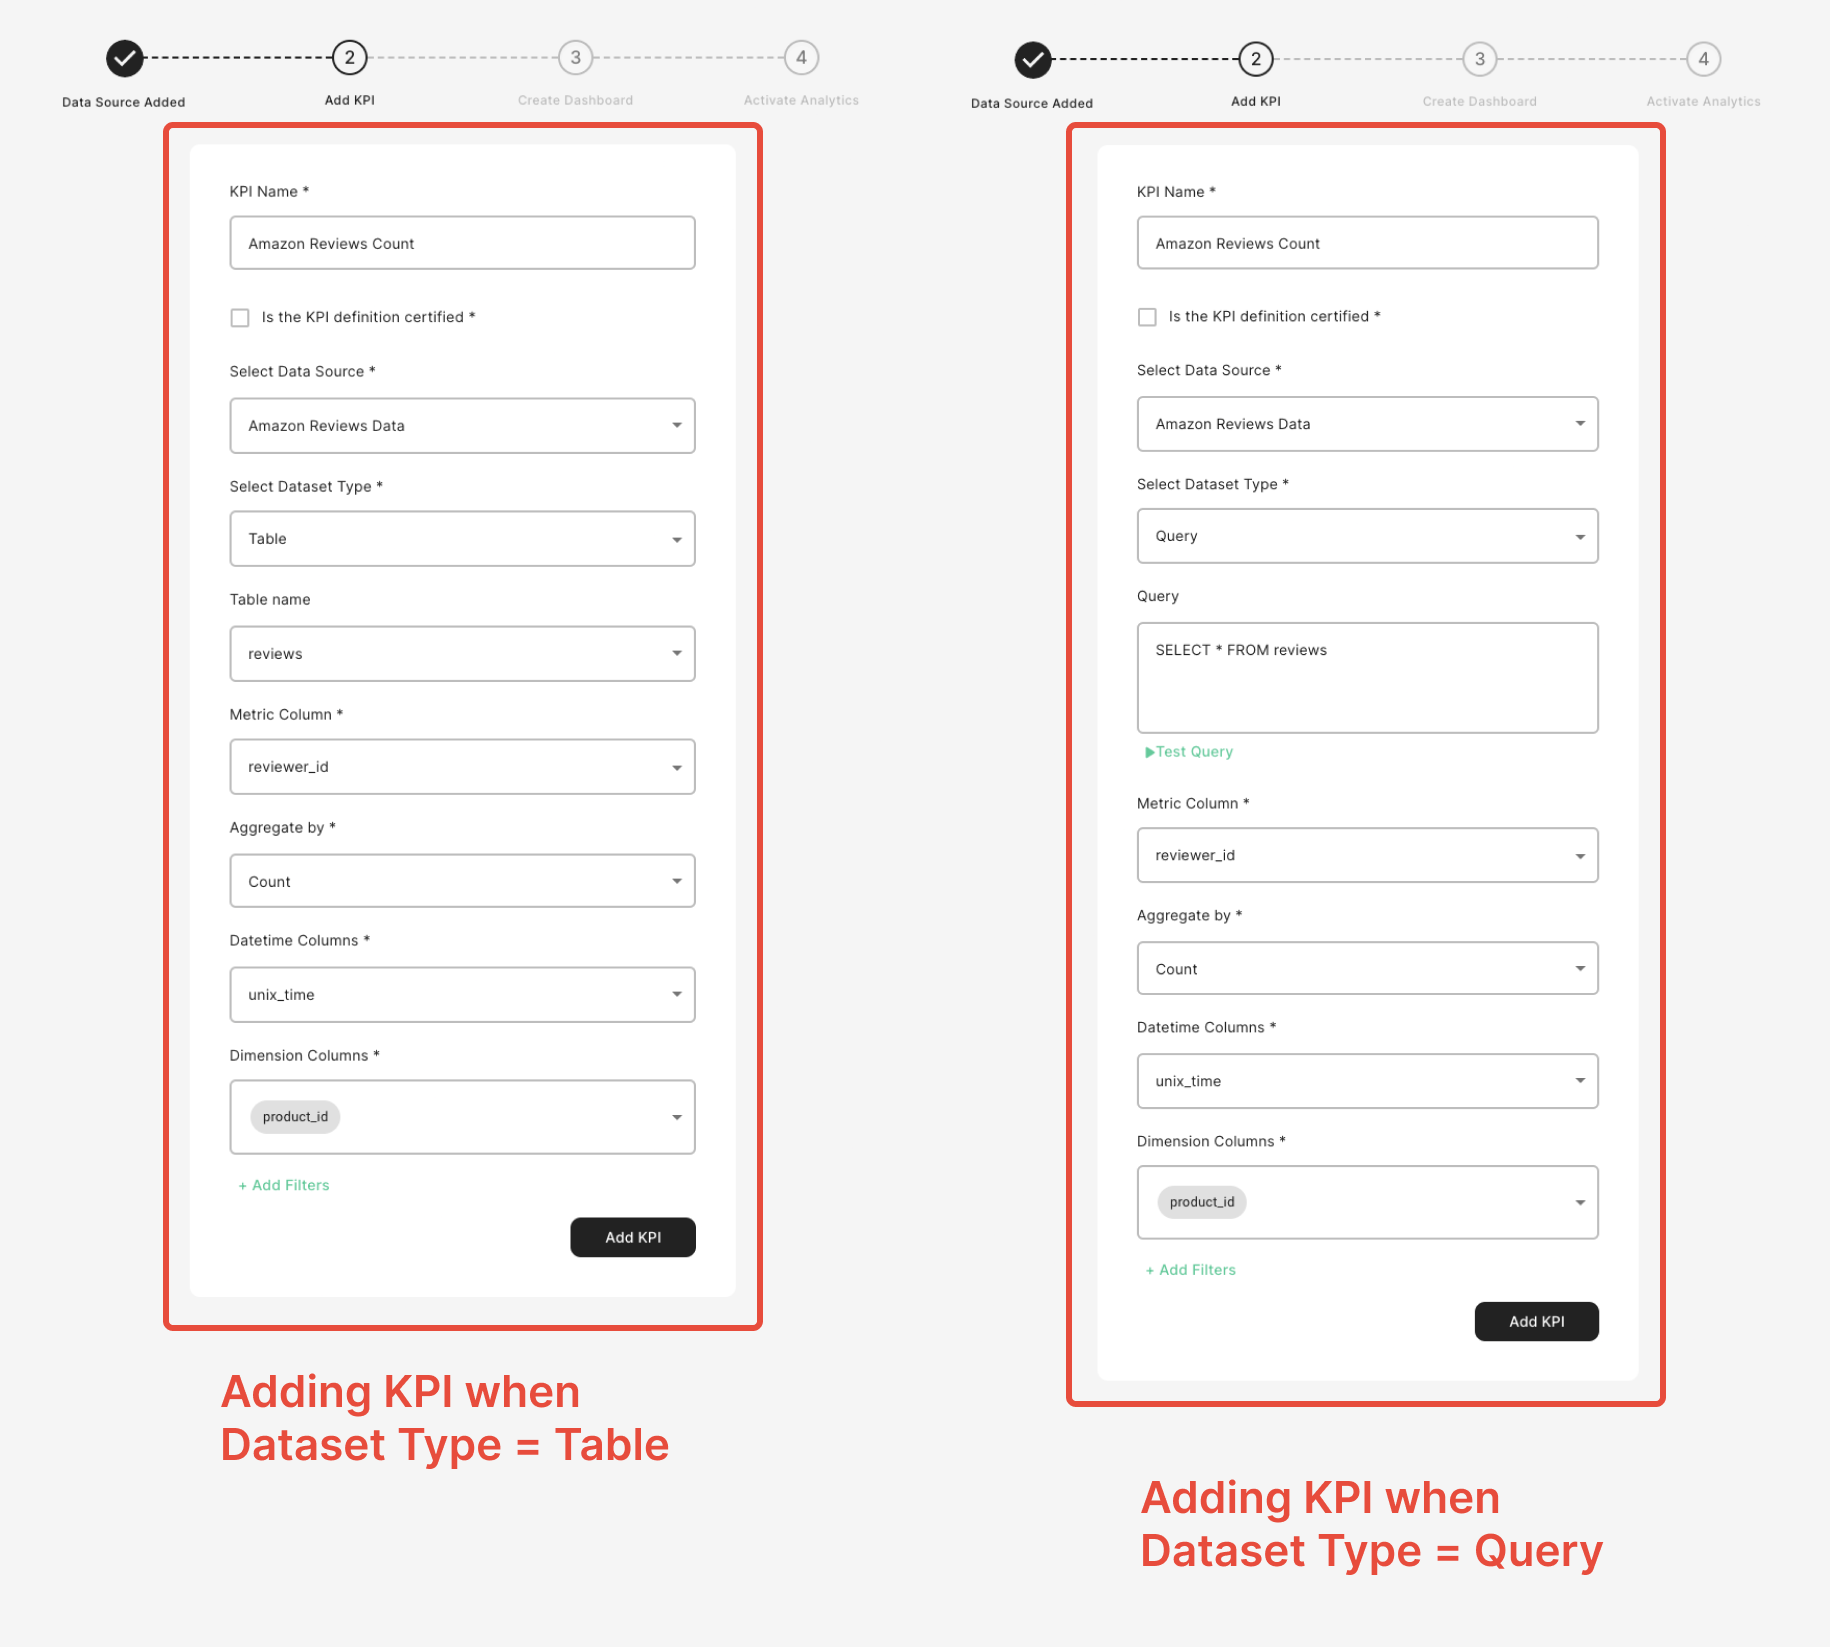
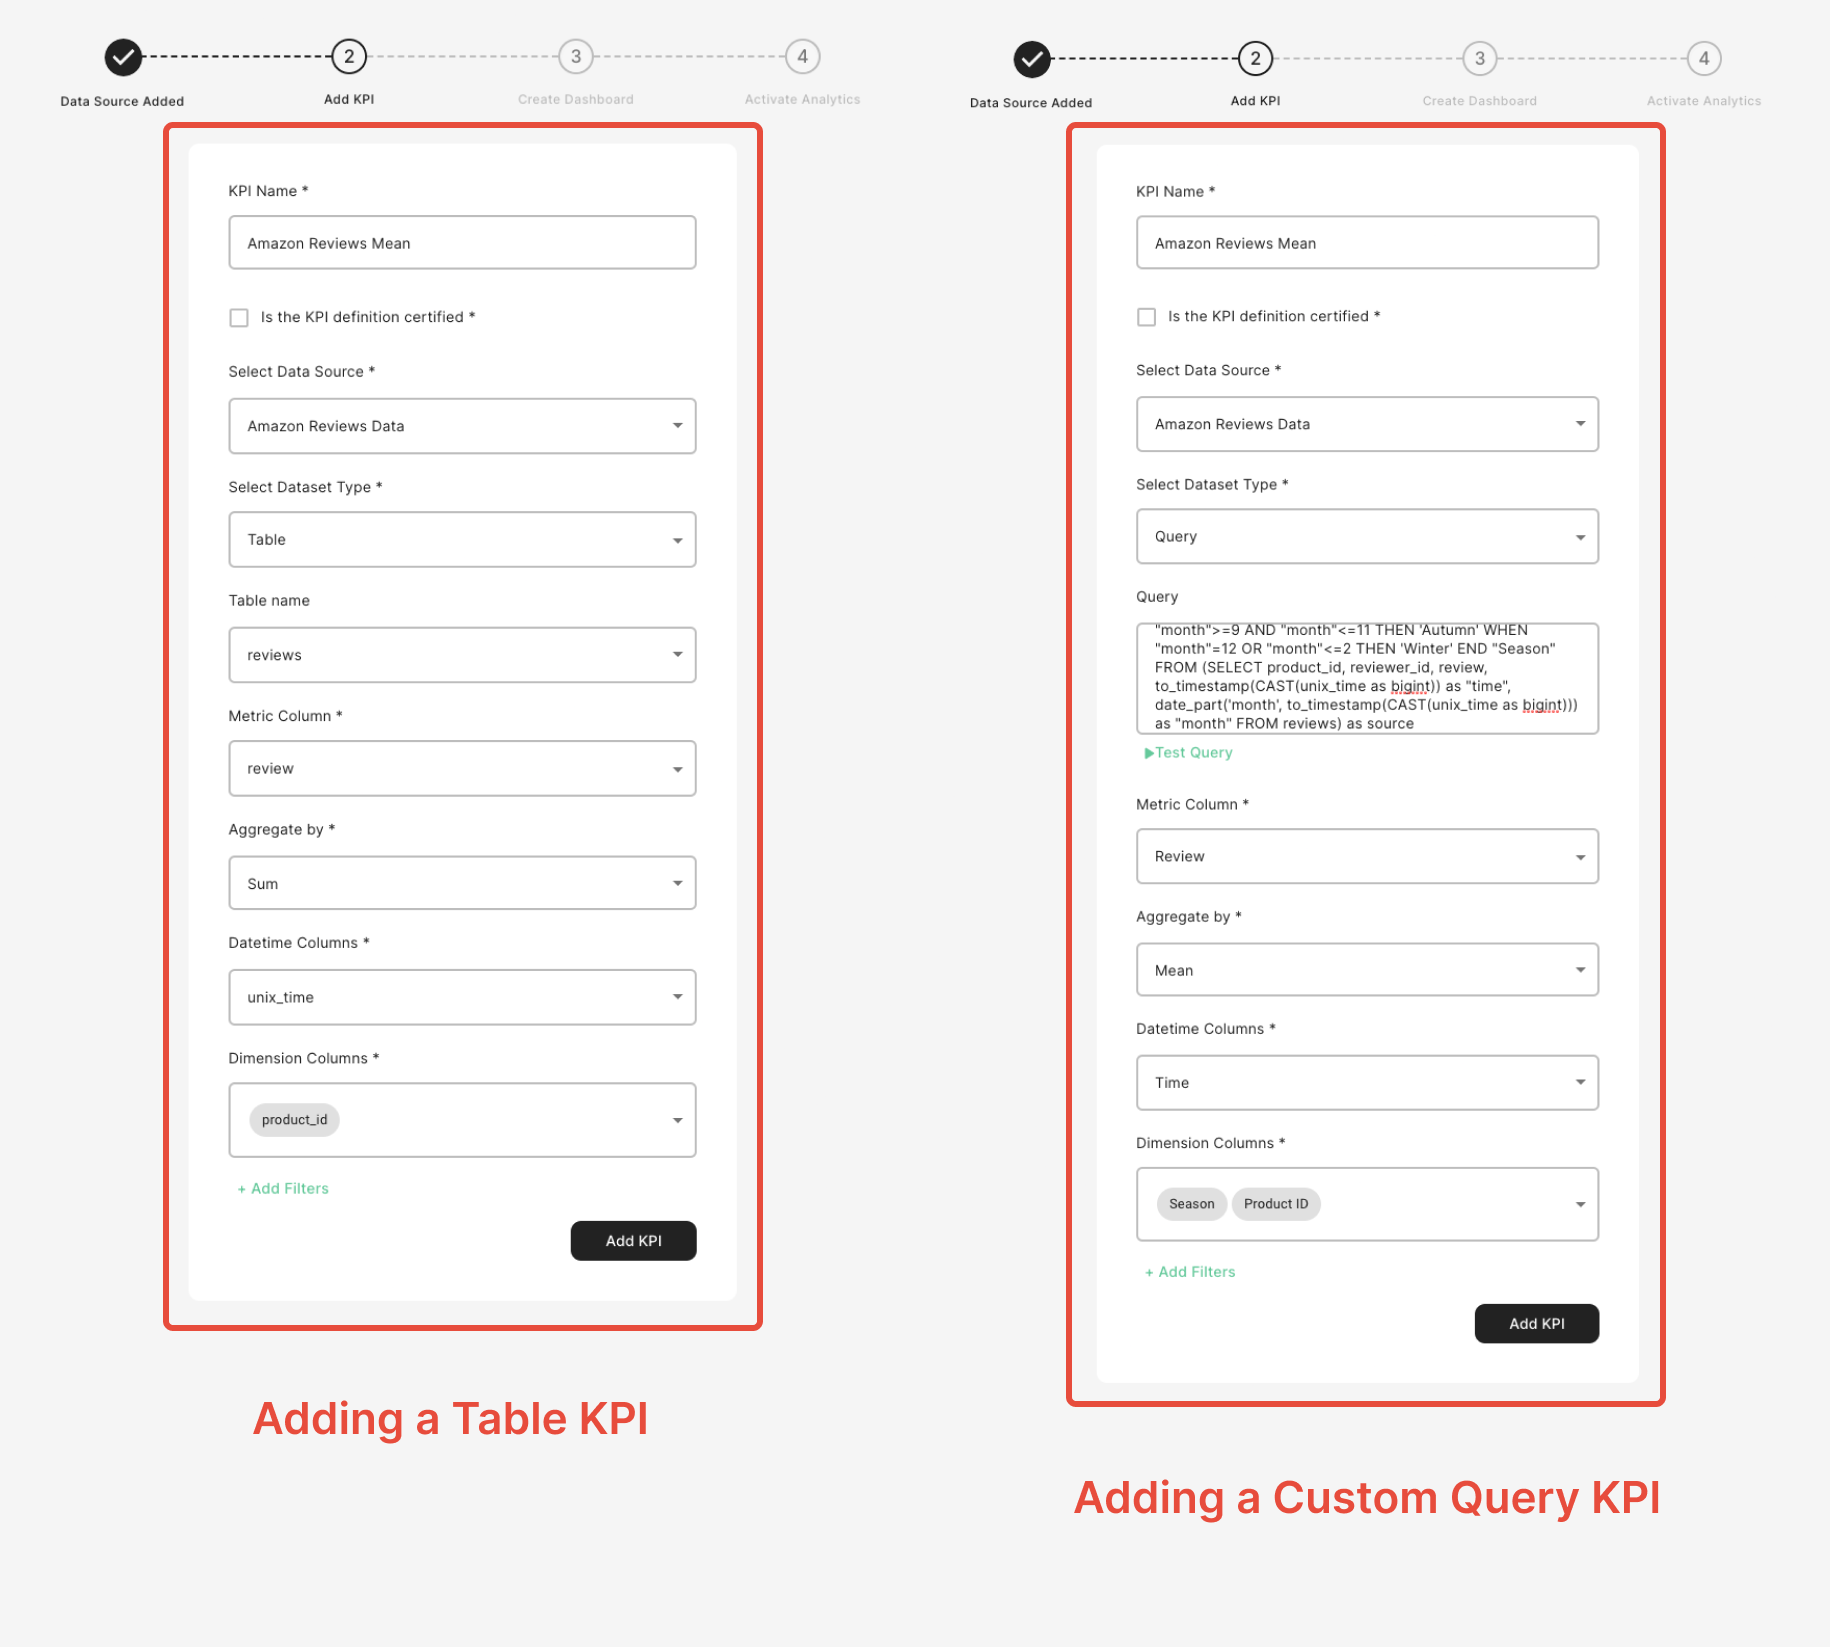
Edited 'Adding KPIs' Documentation

diff --git a/docs/kpi-and-dashboard/add-kpi.md b/docs/kpi-and-dashboard/add-kpi.md
@@ -5,58 +5,64 @@ id: 'adding-kpis'
 
 # Adding KPIs
 
+### What is a KPI
+A Key Performance Indicator (KPI) is a statistic that is used to quantify progress towards critical business objectives. Some examples of KPIs include:
+1. Monthly sales growth
+2. Average purchase value
+3. Daily active users
+
+Alone, these KPIs will provide a baseline representation of how your business is doing. However, by adding these KPIs to Chaos Genius, you will be able to use our AutoRCA and Anomaly Detection tools to instantly gain insights that would have taken hours to gather manually.
+
+### Adding a KPI
 KPIs can be added on the "KPI Explorer" page. Start by clicking "New KPI".
 
-An overview for each input is provided below to aid with adding your KPI.
+<img alt="Options For Adding A KPI" src="/img/kpi-and-dashboard/kpi-dashboard.png" width="800" />
+
+### Table vs Custom Query KPIs
+
+#### Table KPIs
+
+These KPIs are simpler to set up and great if you want to start using Chaos Genius as fast as possible. 
+
+These KPIs can handle major cases. However, if you wish to do any kind of preprocessing, or collect data from multiple tables, you will need to use a Custom Query KPI.
+
+#### Custom Query KPIs
+
+These KPIs are constructed using your own query. As opposed to Table KPIs, here you can utilize an added complexity by using multiple tables, performing single and multi-table transformations and more when defining your KPI.
+
+Before proceeding, ensure you click "Test Query". If no errors are present, the added query is valid.
+The validity of a query depends on the data source. For example, if the data source is Postgres or MySQL, the query needs to adhere to database's syntax.
+
 <figure>
 <img alt="Options For Adding A KPI" src="/img/kpi-and-dashboard/adding-kpi.png" width="800" />
-<figcaption>Example data is used. Your values will differ.</figcaption>
+<figcaption>The data above is used as an example. Your values will differ.</figcaption>
 </figure>
 
-### Data Source
-When you click on `Select Data Source`, all your data sources will be shown. Select the one on which you wish to perform analysis.
+### KPI Parameters
 
-If no data sources are displayed, refer to [Connecting Data Sources](/docs/connecting-to-data-sources/Data%20Source%20Connection%20UI).
-
-### Dataset Type
-For `Select Dataset Type`, the two options are "Table" and "Query".
-
-If you select "Table", Chaos Genius will analyze your Data Source, automatically gathering all its information to be used in the input fields below.
-
-If you prefer a more hands-on method, "Query" allows you to write a query to manually gather the information from your data source.
-
-### Table Name (Only if Dataset Type = "Table")
-
-When you click `Table Name`, a list of tables will be shown. Choose the one you want Chaos Genius to analyze.
-
-The table chosen will impact which columns are available in the input fields below.
-
-### Query (Only if Dataset Type = "Query")
-
-In this textbox, write a query to gather information for Chaos Genius. For example, if the data source is Postgres or MySQL, the query needs to adhere to database's syntax.
-
-Once the query is written, press "Test Query". If no errors were present, the input fields below should be populated with options for you to choose from.
-
-<figure>
-<img alt="Options For Adding A KPI" src="/img/kpi-and-dashboard/add-kpi-query.png" width="400" />
-<figcaption>An example of a valid query for a Postgres database with a table called 'reviews'</figcaption>
-</figure>
-
-### Metric Column
+#### Metric Column
 
 The table column chosen for `Metric Column` is what Chaos Genius will aggregate. 
 
-### Aggregate By
+#### Aggregate By
 
 `Aggregate By` has three options:
 1. Mean
 2. Count (Does not matter which column chosen for `Metric Column` as the processed value will be the same)
 3. Sum
 
-### Datetime Columns
+#### Datetime Columns
 
 From all the columns displayed for `Datetime Columns`, you need to choose the one that stores time.
 
-### Dimension Columns
+#### Dimension Columns
 
 These columns are the ones you want Chaos Genius to do analysis on. You can choose a maximum of 5 columns.
+
+### KPI Validation
+
+Once all the details for a new KPI are inputted and you click "Add KPI", Chaos Genius will determine whether it is a valid. If it is not, an error will appear, else you will be redirected to the KPI Dashboard. 
+
+### Next Steps
+
+Once the KPI is set up properly, you will be able log onto your dashboard everyday and find the new insights provided based on the updated data from your selected [Data Sources](http://localhost:3000/docs/connecting-to-data-sources/Data%20Source%20Connection%20UI).
